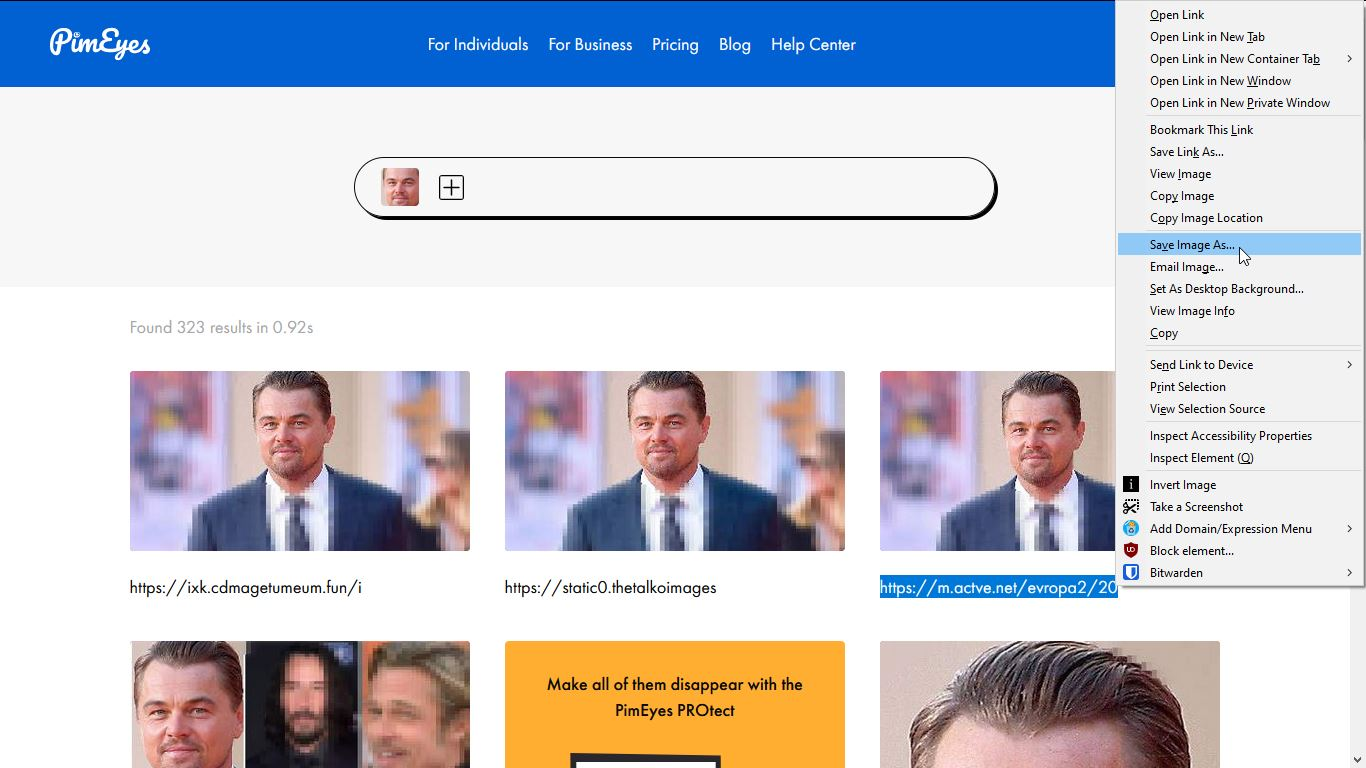
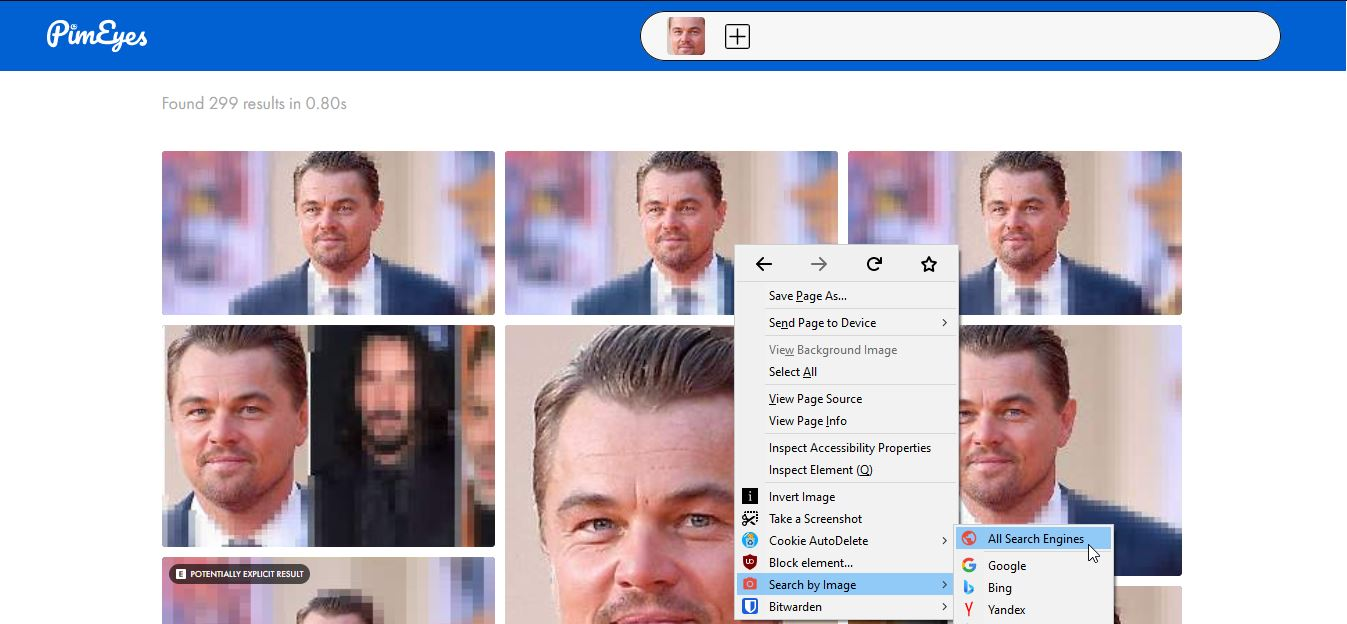
Release v4.0.0!
* Updated screenshots
 * Changed url match from "url-prefix" to regexp so it works on all languages
 * Made URL des-censoring work with a wildcard
 * Fixed image selection

diff --git a/styles.css b/styles.css
@@ -1,12 +1,12 @@
 /* ==UserStyle==
 @name           PimEyes Crack
 @namespace      github.com/PinkDev1/PimEyes-Crack-UserStyle
-@version        3.0.0
+@version        4.0.0
 @description    Allows easier use of the FREE version of PimEyes
 @author         PinkDev1
 ==/UserStyle== */
 
-@-moz-document url-prefix("https://pimeyes.com/en/search") {
+@-moz-document regexp("https:\\/\\/pimeyes.com\\/.{2}\\/search\\/.*") {
 
     /*Un-blur the URLs*/
     .blurred-source-url{
@@ -14,12 +14,13 @@
     }
 
     /*Make the URLs selectable, and visible*/
-    span{
+    *.url{
         filter: none !important;;
         overflow: visible !important;;
         user-select: initial !important;;
         max-width: initial !important;;
         pointer-events: none !important;;
+        position: initial !important;
     }
 
     /*Remove the Buy Premium overlay on images*/
@@ -38,9 +39,13 @@
         display: none !important;;
     }
     
-    /*un-ide add picture button*/
+    /*un-hide add picture button*/
     button[class="spacer"] {
         display: inherit !important;;
     }
     
+    /*Remove events from image*/
+    div.thumbnail {
+        pointer-events: none !important;;
+    }
 }

diff --git a/README.md b/README.md
@@ -45,3 +45,4 @@ If you have an issue/request/question/etc feel free to open an issue.
 
 ![General view of the site](pics/cap1.jpg)
 ![Search-by-image with the addon](pics/cap2.jpg)
+![The cropped URLs are selectable](pics/cap3.jpg)
